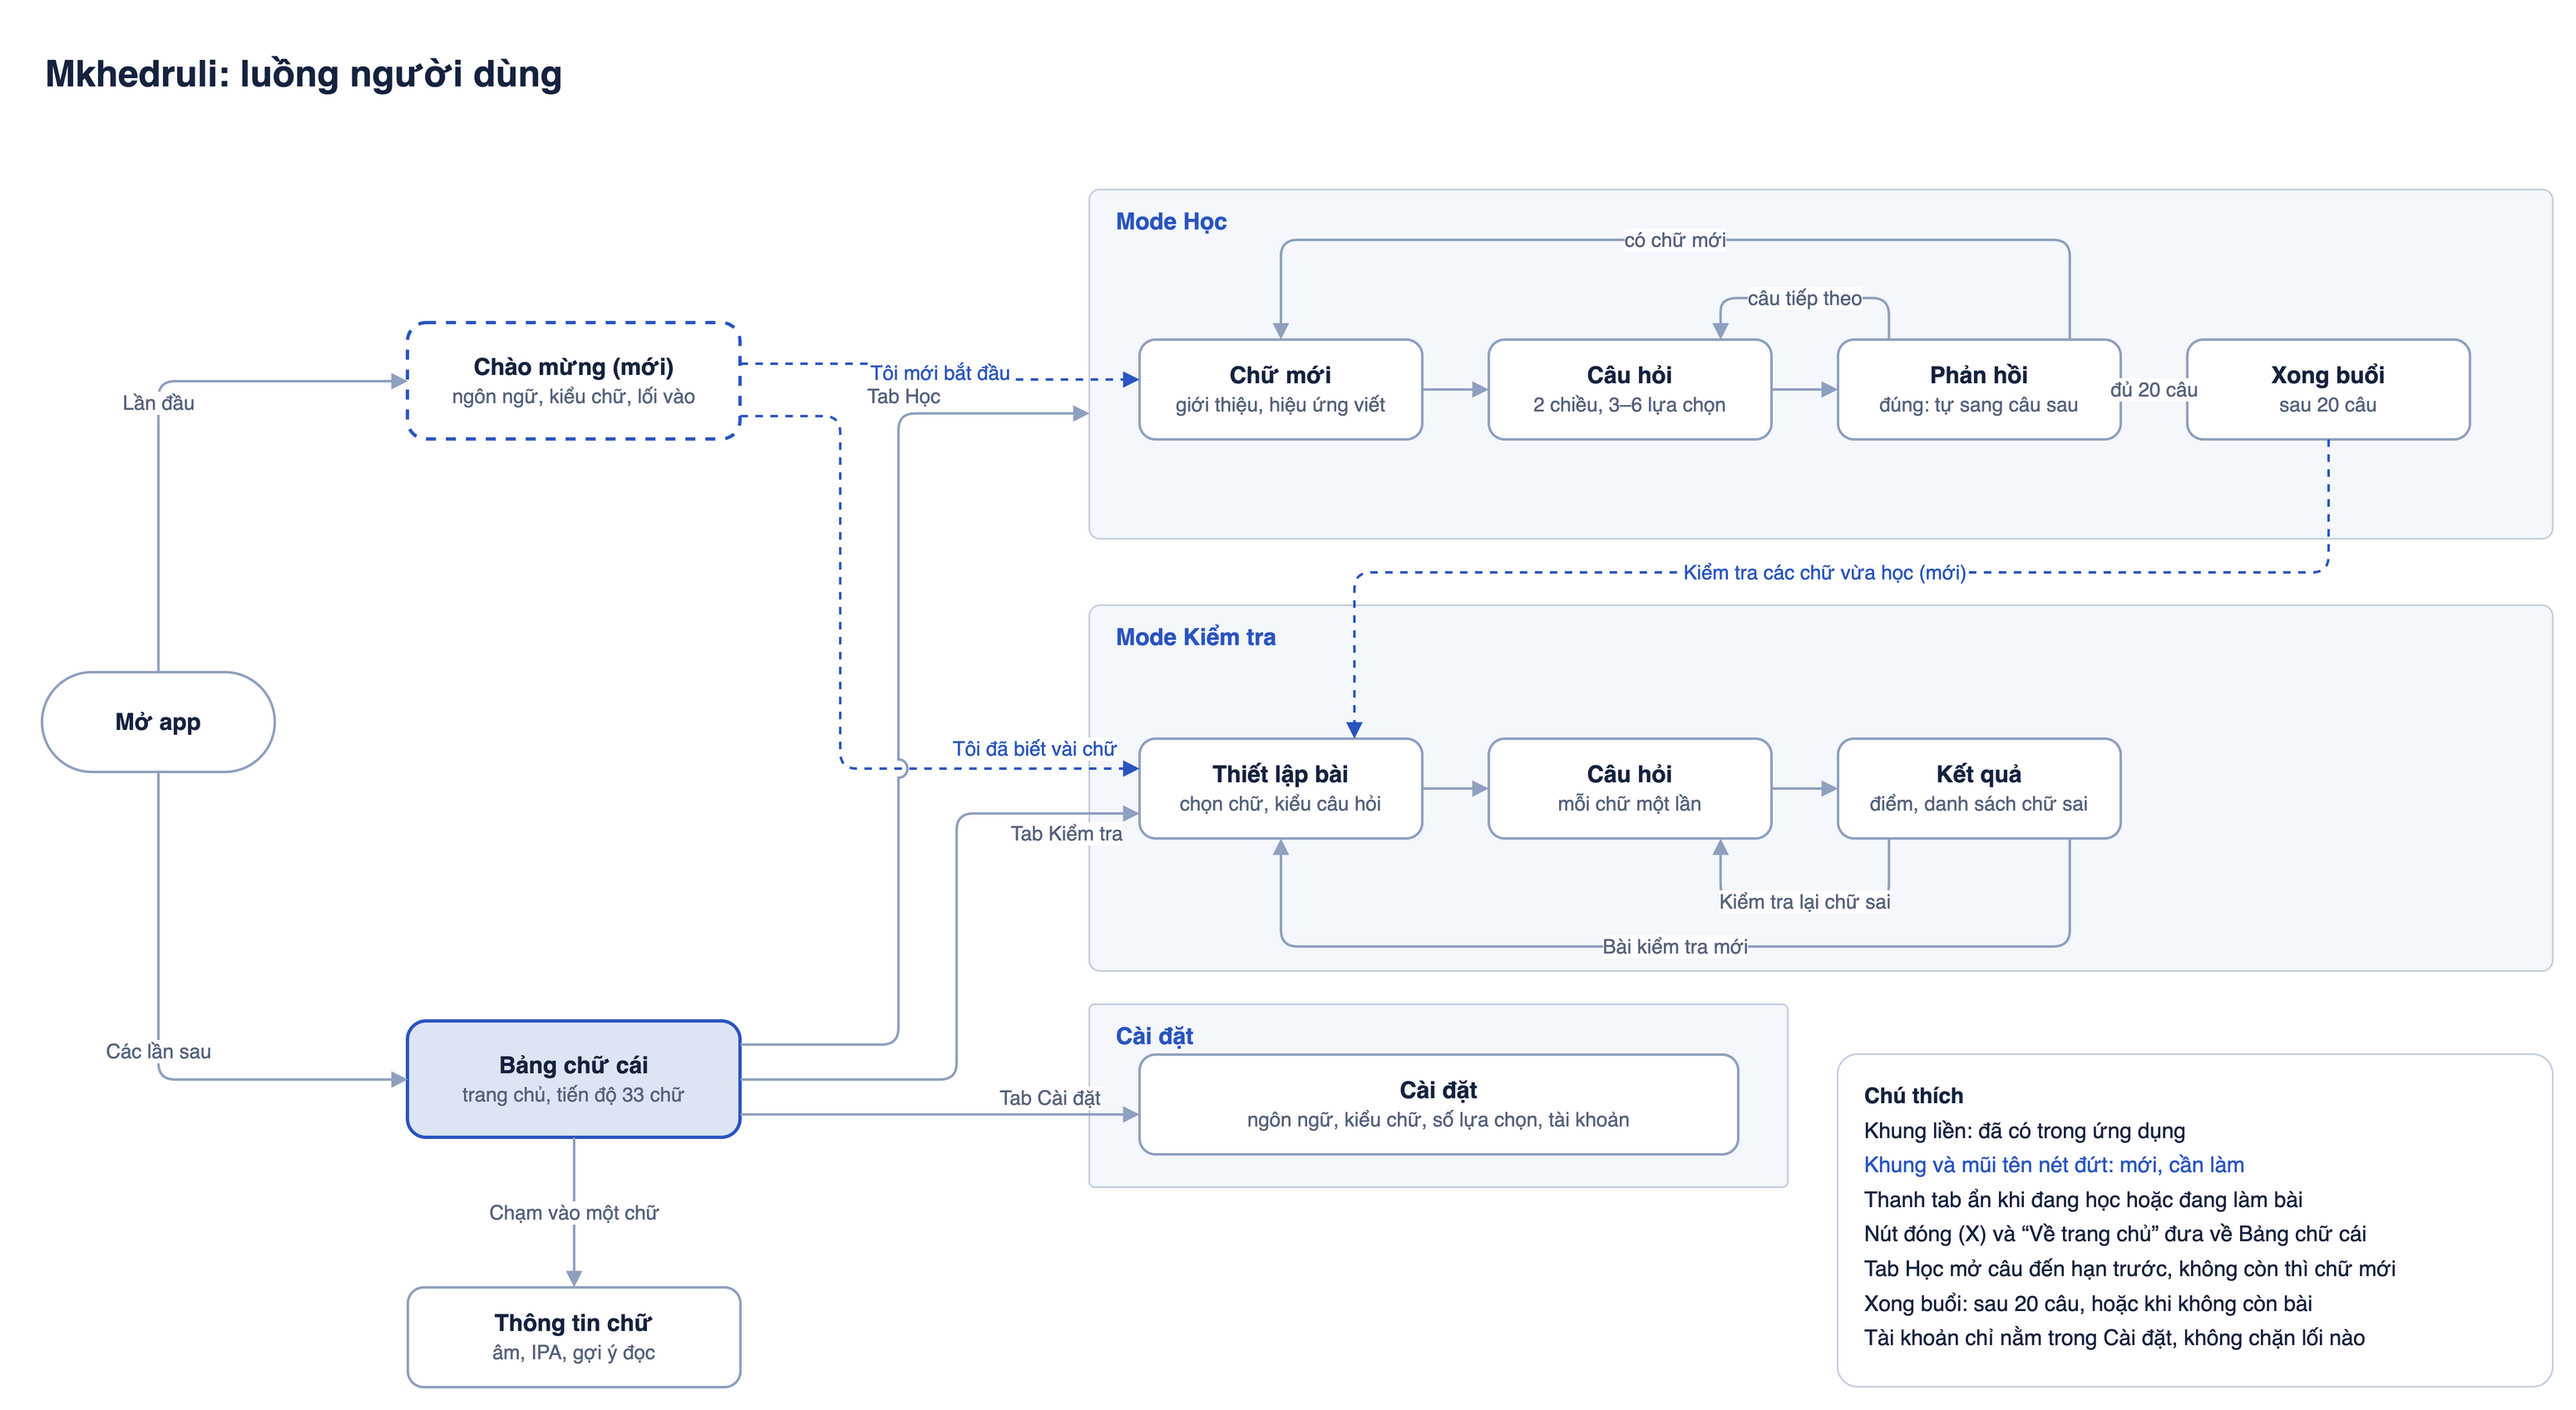
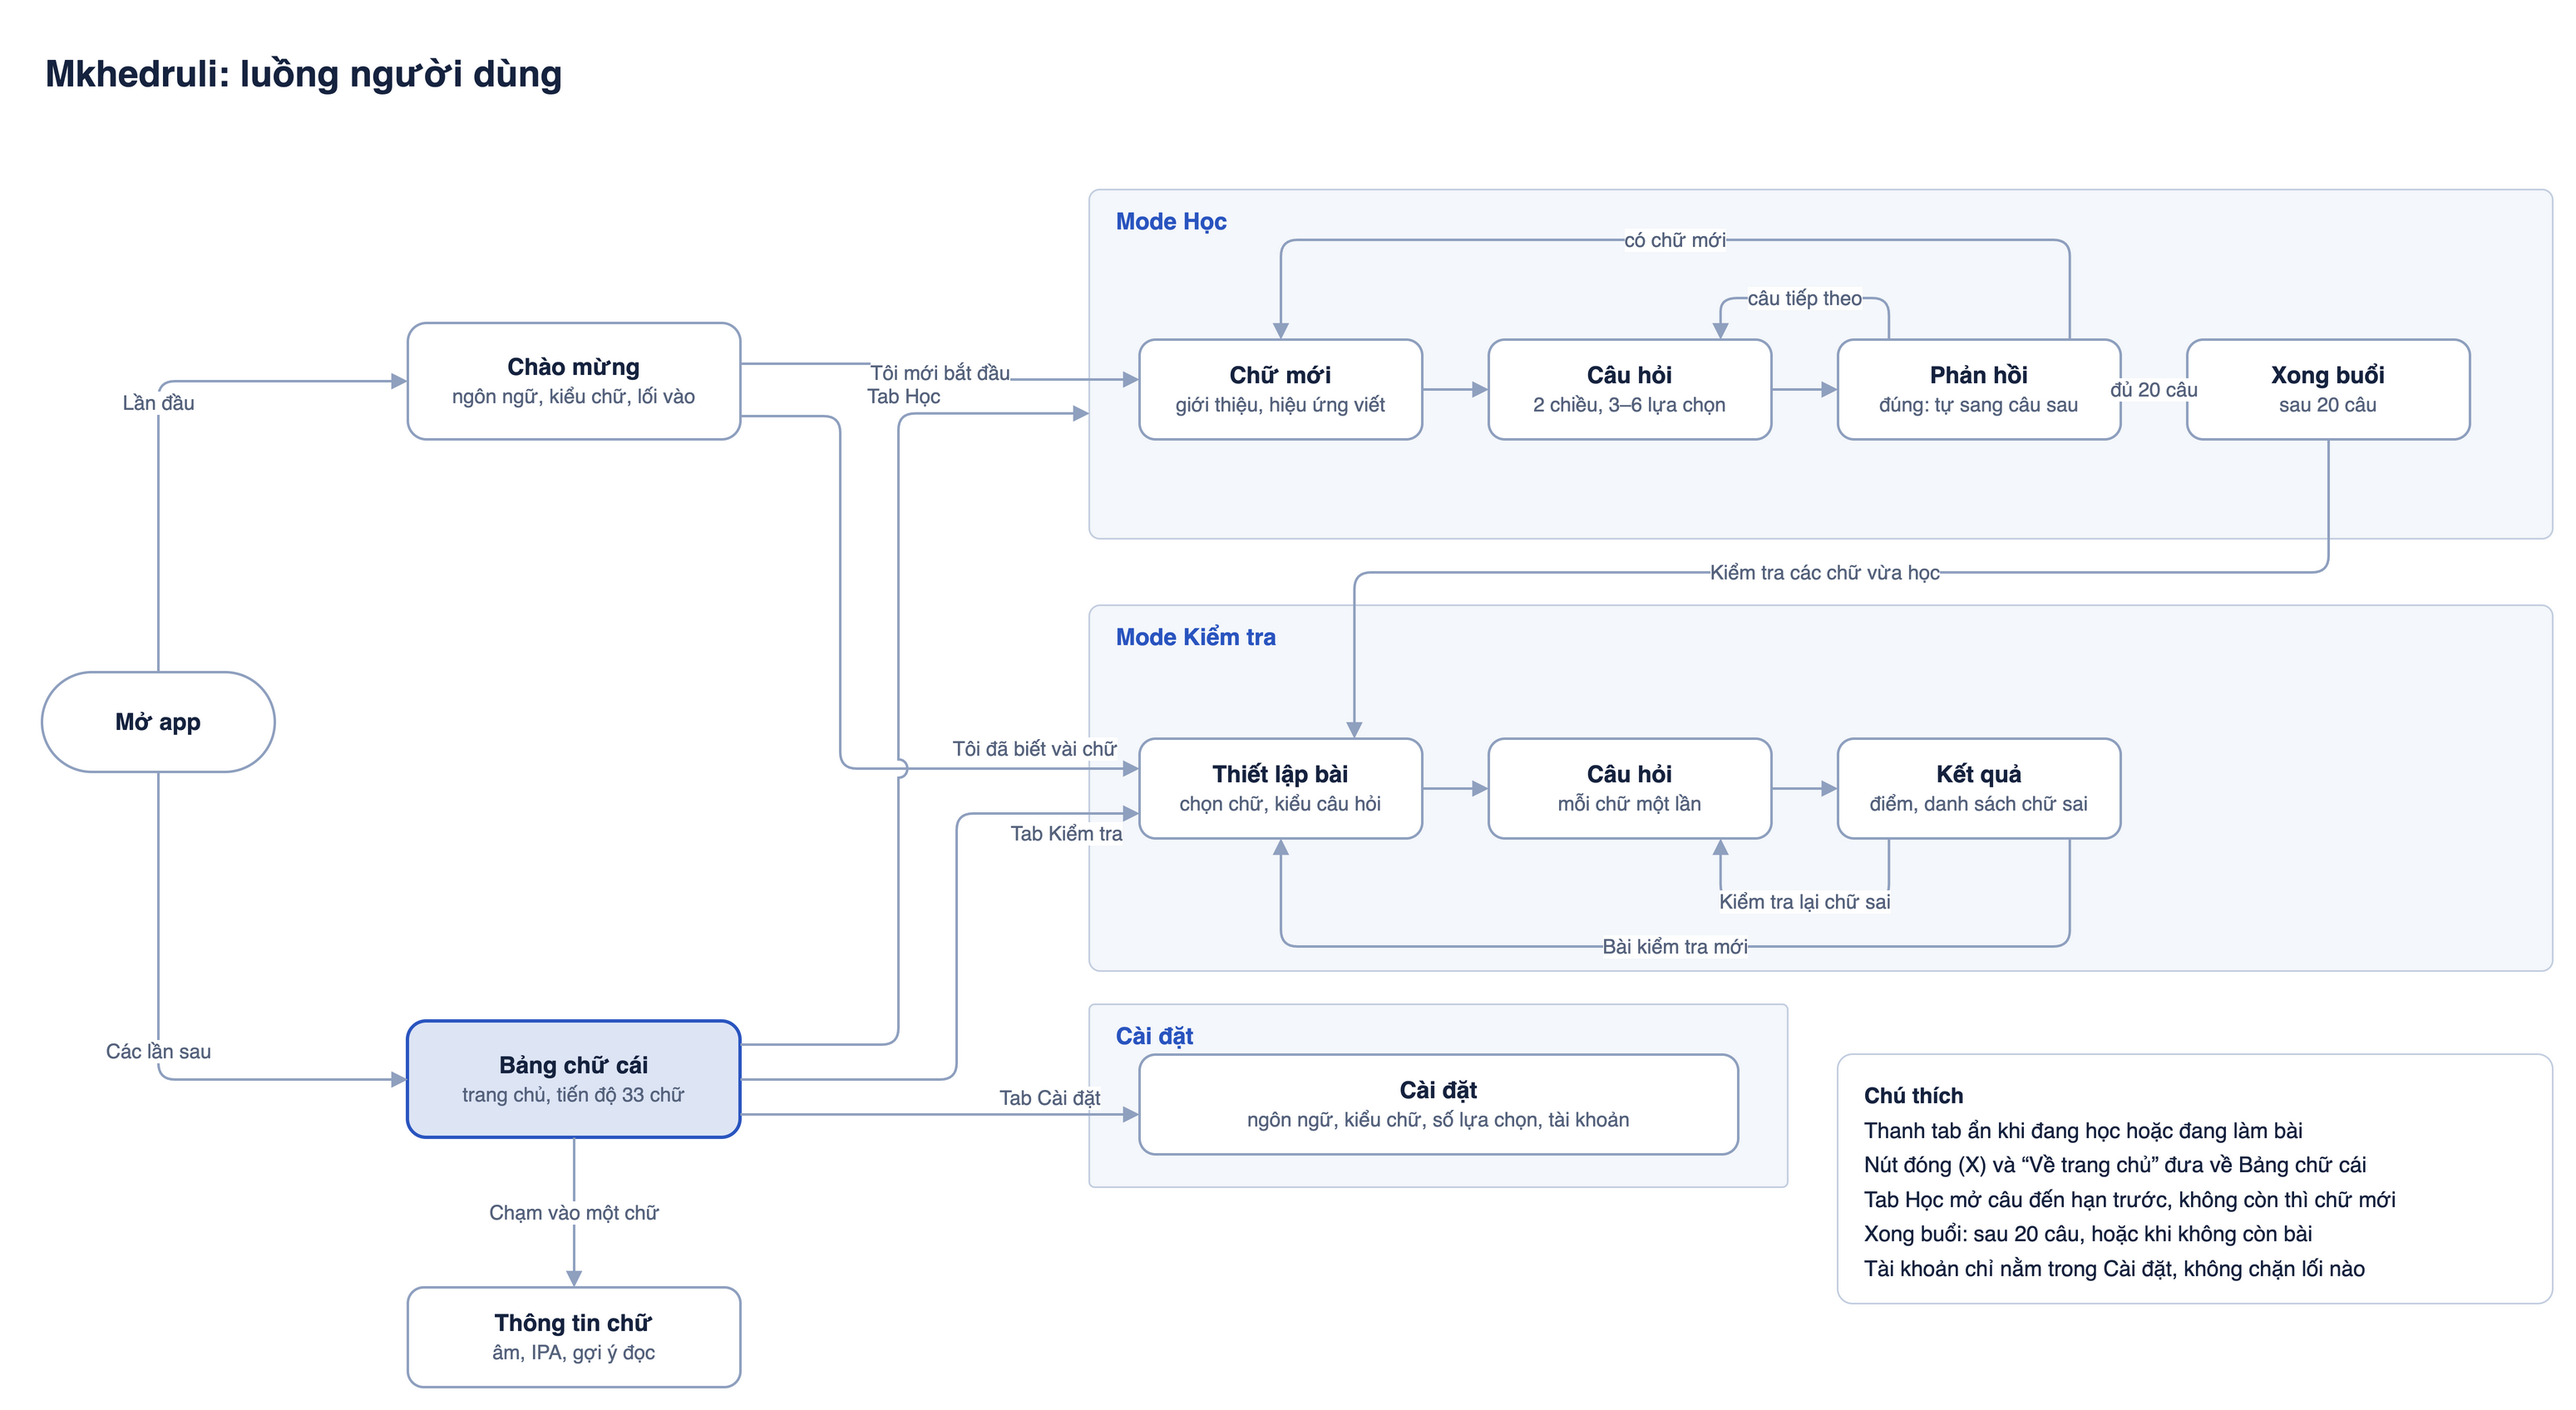
feat: first-run welcome screen and a test shortcut after a learn session

diff --git a/src/routes/settings/+page.svelte b/src/routes/settings/+page.svelte
@@ -1,16 +1,9 @@
 <script lang="ts">
+	import FontPicker from '$lib/components/FontPicker.svelte';
 	import Segmented from '$lib/components/Segmented.svelte';
-	import type { Lang } from '$lib/letters';
 	import { pb } from '$lib/pb';
 	import { forgetRemote, pull } from '$lib/progress.svelte';
-	import { adoptProfile, GLYPH_FONTS, MAX_DISTRACTORS, MIN_DISTRACTORS, settings, t, updateSettings } from '$lib/settings.svelte';
-
-	const fontLabel = { sans: 'fontSans', serif: 'fontSerif', system: 'fontSystem' } as const;
-
-	const langs: { value: Lang; label: string }[] = [
-		{ value: 'vi', label: 'Tiếng Việt' },
-		{ value: 'en', label: 'English' }
-	];
+	import { adoptProfile, LANGS, MAX_DISTRACTORS, MIN_DISTRACTORS, settings, t, updateSettings } from '$lib/settings.svelte';
 
 	let user = $state(pb.authStore.record);
 	$effect(() => pb.authStore.onChange(() => (user = pb.authStore.record)));
@@ -52,20 +45,12 @@
 
 	<section>
 		<h2 id="lang-label">{t('language')}</h2>
-		<Segmented name="lang" labelledby="lang-label" options={langs} value={settings.lang} onchange={(lang) => updateSettings({ lang })} />
+		<Segmented name="lang" labelledby="lang-label" options={LANGS} value={settings.lang} onchange={(lang) => updateSettings({ lang })} />
 	</section>
 
 	<section>
 		<h2 id="font-label">{t('glyphFont')}</h2>
-		<div class="fonts" role="radiogroup" aria-labelledby="font-label">
-			{#each GLYPH_FONTS as font (font)}
-				<label class="font" class:on={settings.glyphFont === font}>
-					<input type="radio" name="glyphFont" value={font} checked={settings.glyphFont === font} onchange={() => updateSettings({ glyphFont: font })} />
-					<span class="sample {font}" lang="ka" aria-hidden="true">აბგდ</span>
-					<span>{t(fontLabel[font])}</span>
-				</label>
-			{/each}
-		</div>
+		<FontPicker labelledby="font-label" />
 		<p class="muted">{t('fontHelp')}</p>
 	</section>
 
@@ -115,28 +100,6 @@
 	.range { display: flex; align-items: center; gap: 16px; }
 	.range input { flex: 1; min-height: 48px; accent-color: var(--lapis); }
 	.range output { min-width: 7em; font-weight: 600; }
-
-	.fonts { display: grid; grid-template-columns: repeat(3, minmax(0, 1fr)); gap: 8px; }
-	.font {
-		display: flex;
-		flex-direction: column;
-		align-items: center;
-		gap: 4px;
-		padding: 12px 6px 10px;
-		border: 1.5px solid var(--rule-strong);
-		border-radius: var(--radius);
-		font-size: 0.85rem;
-		text-align: center;
-		cursor: pointer;
-		transition: border-color 0.2s, background-color 0.2s;
-	}
-	.font.on { border-color: var(--lapis); background: color-mix(in srgb, var(--lapis) 12%, transparent); font-weight: 600; }
-	.font:has(input:focus-visible) { outline: 3px solid var(--lapis); outline-offset: 2px; }
-	.font input { position: absolute; opacity: 0; pointer-events: none; }
-	.sample { font-size: 1.7rem; line-height: 1.4; font-weight: 400; }
-	.sample.sans { font-family: var(--font-glyph-sans); }
-	.sample.serif { font-family: var(--font-glyph-serif); }
-	.sample.system { font-family: var(--font-glyph-system); }
 
 	form { display: flex; flex-direction: column; gap: 12px; }
 	form label { display: flex; flex-direction: column; gap: 6px; font-size: 0.9rem; }

diff --git a/src/lib/components/FontPicker.svelte b/src/lib/components/FontPicker.svelte
@@ -1,0 +1,41 @@
+<script lang="ts">
+	import { GLYPH_FONTS, settings, t, updateSettings } from '$lib/settings.svelte';
+
+	let { labelledby }: { labelledby: string } = $props();
+
+	const label = { sans: 'fontSans', serif: 'fontSerif', system: 'fontSystem' } as const;
+</script>
+
+<div class="fonts" role="radiogroup" aria-labelledby={labelledby}>
+	{#each GLYPH_FONTS as font (font)}
+		<label class="font" class:on={settings.glyphFont === font}>
+			<input type="radio" name="glyphFont" value={font} checked={settings.glyphFont === font} onchange={() => updateSettings({ glyphFont: font })} />
+			<span class="sample {font}" lang="ka" aria-hidden="true">აბგდ</span>
+			<span>{t(label[font])}</span>
+		</label>
+	{/each}
+</div>
+
+<style>
+	.fonts { display: grid; grid-template-columns: repeat(3, minmax(0, 1fr)); gap: 8px; }
+	.font {
+		display: flex;
+		flex-direction: column;
+		align-items: center;
+		gap: 4px;
+		padding: 12px 6px 10px;
+		border: 1.5px solid var(--rule-strong);
+		border-radius: var(--radius);
+		font-size: 0.85rem;
+		text-align: center;
+		cursor: pointer;
+		transition: border-color 0.2s, background-color 0.2s;
+	}
+	.font.on { border-color: var(--lapis); background: color-mix(in srgb, var(--lapis) 12%, transparent); font-weight: 600; }
+	.font:has(input:focus-visible) { outline: 3px solid var(--lapis); outline-offset: 2px; }
+	.font input { position: absolute; opacity: 0; pointer-events: none; }
+	.sample { font-size: 1.7rem; line-height: 1.4; font-weight: 400; }
+	.sample.sans { font-family: var(--font-glyph-sans); }
+	.sample.serif { font-family: var(--font-glyph-serif); }
+	.sample.system { font-family: var(--font-glyph-system); }
+</style>

diff --git a/src/routes/welcome/+page.svelte b/src/routes/welcome/+page.svelte
@@ -1,0 +1,45 @@
+<script lang="ts">
+	import { goto } from '$app/navigation';
+	import FontPicker from '$lib/components/FontPicker.svelte';
+	import Segmented from '$lib/components/Segmented.svelte';
+	import Staff from '$lib/components/Staff.svelte';
+	import { ONBOARDED_KEY } from '$lib/onboarding';
+	import { LANGS, settings, t, updateSettings } from '$lib/settings.svelte';
+	import { save } from '$lib/storage';
+
+	function begin(path: string) {
+		save(ONBOARDED_KEY, true);
+		goto(path, { replaceState: true });
+	}
+</script>
+
+<main class="page">
+	<section class="hero">
+		<Staff char="ა" size="min(8.5rem, 34vw)" tone="lapis" write />
+		<h1 lang="ka">მხედრული</h1>
+		<p class="muted">{t('welcomeTagline')}</p>
+	</section>
+
+	<section>
+		<h2 id="lang-label">{t('language')}</h2>
+		<Segmented name="lang" labelledby="lang-label" options={LANGS} value={settings.lang} onchange={(lang) => updateSettings({ lang })} />
+	</section>
+
+	<section>
+		<h2 id="font-label">{t('glyphFont')}</h2>
+		<FontPicker labelledby="font-label" />
+		<p class="muted">{t('fontHelp')}</p>
+	</section>
+
+	<div class="actions bottom">
+		<button class="btn primary" onclick={() => begin('/learn')}>{t('startNew')}</button>
+		<button class="btn" onclick={() => begin('/test?scope=all')}>{t('startKnown')}</button>
+	</div>
+</main>
+
+<style>
+	section { display: flex; flex-direction: column; gap: 12px; }
+	h2 { font-size: 1rem; font-weight: 600; }
+	.hero { align-items: stretch; text-align: center; gap: 6px; padding-top: 12px; }
+	.hero h1 { font-family: var(--font-glyph); font-size: clamp(2.2rem, 10vw, 2.8rem); font-weight: 600; line-height: 1.2; }
+</style>

diff --git a/src/lib/messages.ts b/src/lib/messages.ts
@@ -46,6 +46,10 @@ export const vi = {
 	intro: 'Chạm vào một chữ để xem cách đọc. Chọn Học để làm quen từng chữ, hoặc Kiểm tra để tự đánh giá.',
 	test: 'Kiểm tra',
 	learn: 'Học',
+	welcomeTagline: 'Học đọc 33 chữ cái tiếng Georgia. Miễn phí, không cần tài khoản.',
+	startNew: 'Tôi mới bắt đầu',
+	startKnown: 'Tôi đã biết vài chữ, kiểm tra trước',
+	testLearned: 'Kiểm tra các chữ vừa học',
 	mainNav: 'Điều hướng chính',
 	scope: 'Chọn chữ',
 	scopeAll: 'Tất cả (33)',
@@ -122,6 +126,10 @@ export const en: Record<MessageKey, string> = {
 	intro: 'Tap a letter to see how it reads. Choose Learn to meet the letters one by one, or Test to check yourself.',
 	test: 'Test',
 	learn: 'Learn',
+	welcomeTagline: 'Learn to read the 33 Georgian letters. Free, no account needed.',
+	startNew: 'I am new to Georgian',
+	startKnown: 'I know some letters, test me first',
+	testLearned: 'Test the letters I studied',
 	mainNav: 'Main navigation',
 	scope: 'Letters',
 	scopeAll: 'All (33)',

diff --git a/src/routes/+layout.svelte b/src/routes/+layout.svelte
@@ -14,7 +14,7 @@
 
 	let { children } = $props();
 
-	const immersive = $derived(page.url.pathname === '/learn' || ui.immersive);
+	const immersive = $derived(['/learn', '/welcome'].includes(page.url.pathname) || ui.immersive);
 
 	$effect(() => {
 		document.documentElement.lang = settings.lang;
@@ -39,6 +39,11 @@
 				.then(({ record }) => adoptProfile(record))
 				.then(pull)
 				.catch(() => {});
+		}
+		// A new release took over from the previous service worker: reload once so the page matches it.
+		// Progress is saved after every answer, so nothing is lost.
+		if (navigator.serviceWorker?.controller) {
+			navigator.serviceWorker.addEventListener('controllerchange', () => location.reload(), { once: true });
 		}
 		const online = () => void push();
 		addEventListener('online', online);

diff --git a/src/routes/test/+page.svelte b/src/routes/test/+page.svelte
@@ -1,4 +1,5 @@
 <script lang="ts">
+	import { page } from '$app/state';
 	import AlphabetGrid from '$lib/components/AlphabetGrid.svelte';
 	import Icon from '$lib/components/Icon.svelte';
 	import Question from '$lib/components/Question.svelte';
@@ -22,6 +23,9 @@
 	}
 
 	const setup = $state<Setup>(load('testSetup', { scope: 'all', direction: 'mixed', custom: [] }));
+	// Links such as the end of a learn session preset the letter scope.
+	const requested = page.url.searchParams.get('scope');
+	if (requested === 'all' || requested === 'studied' || requested === 'custom') setup.scope = requested;
 	$effect(() => save('testSetup', setup));
 
 	let phase = $state<'setup' | 'running' | 'result'>('setup');

diff --git a/src/lib/onboarding.test.ts b/src/lib/onboarding.test.ts
@@ -1,0 +1,16 @@
+import { describe, expect, it } from 'vitest';
+import { shouldWelcome } from './onboarding';
+
+describe('onboarding', () => {
+	it('welcomes a first-time visitor', () => {
+		expect(shouldWelcome(false, 0)).toBe(true);
+	});
+
+	it('skips the welcome once it was finished', () => {
+		expect(shouldWelcome(true, 0)).toBe(false);
+	});
+
+	it('skips the welcome for learners who already have progress', () => {
+		expect(shouldWelcome(false, 4)).toBe(false);
+	});
+});

diff --git a/src/routes/learn/+page.svelte b/src/routes/learn/+page.svelte
@@ -93,7 +93,8 @@
 			{/if}
 		</section>
 		<div class="actions bottom">
-			{#if paused}<button class="btn primary" onclick={keepGoing}>{t('keepGoing')}</button>{/if}
+			<a class="btn primary" href="/test?scope=studied">{t('testLearned')}</a>
+			{#if paused}<button class="btn" onclick={keepGoing}>{t('keepGoing')}</button>{/if}
 			<a class="btn" href="/">{t('backHome')}</a>
 		</div>
 	{/if}

diff --git a/src/routes/+page.ts b/src/routes/+page.ts
@@ -1,0 +1,8 @@
+import { redirect } from '@sveltejs/kit';
+import { ONBOARDED_KEY, shouldWelcome } from '$lib/onboarding';
+import { progress } from '$lib/progress.svelte';
+import { load as read } from '$lib/storage';
+
+export function load() {
+	if (shouldWelcome(read(ONBOARDED_KEY, false), Object.keys(progress.cards).length)) redirect(307, '/welcome');
+}

diff --git a/src/lib/onboarding.ts b/src/lib/onboarding.ts
@@ -1,0 +1,5 @@
+/** localStorage key set once the learner leaves the welcome screen. */
+export const ONBOARDED_KEY = 'onboarded';
+
+/** Learners who already studied on this device (from before the welcome screen existed, or synced) skip it. */
+export const shouldWelcome = (onboarded: boolean, cardCount: number) => !onboarded && cardCount === 0;

diff --git a/src/lib/settings.svelte.ts b/src/lib/settings.svelte.ts
@@ -5,6 +5,11 @@ import type { MessageKey } from './messages';
 import { pb } from './pb';
 import { load, save } from './storage';
 
+export const LANGS: { value: Lang; label: string }[] = [
+	{ value: 'vi', label: 'Tiếng Việt' },
+	{ value: 'en', label: 'English' }
+];
+
 export const MIN_DISTRACTORS = 2;
 export const MAX_DISTRACTORS = 5;
 
